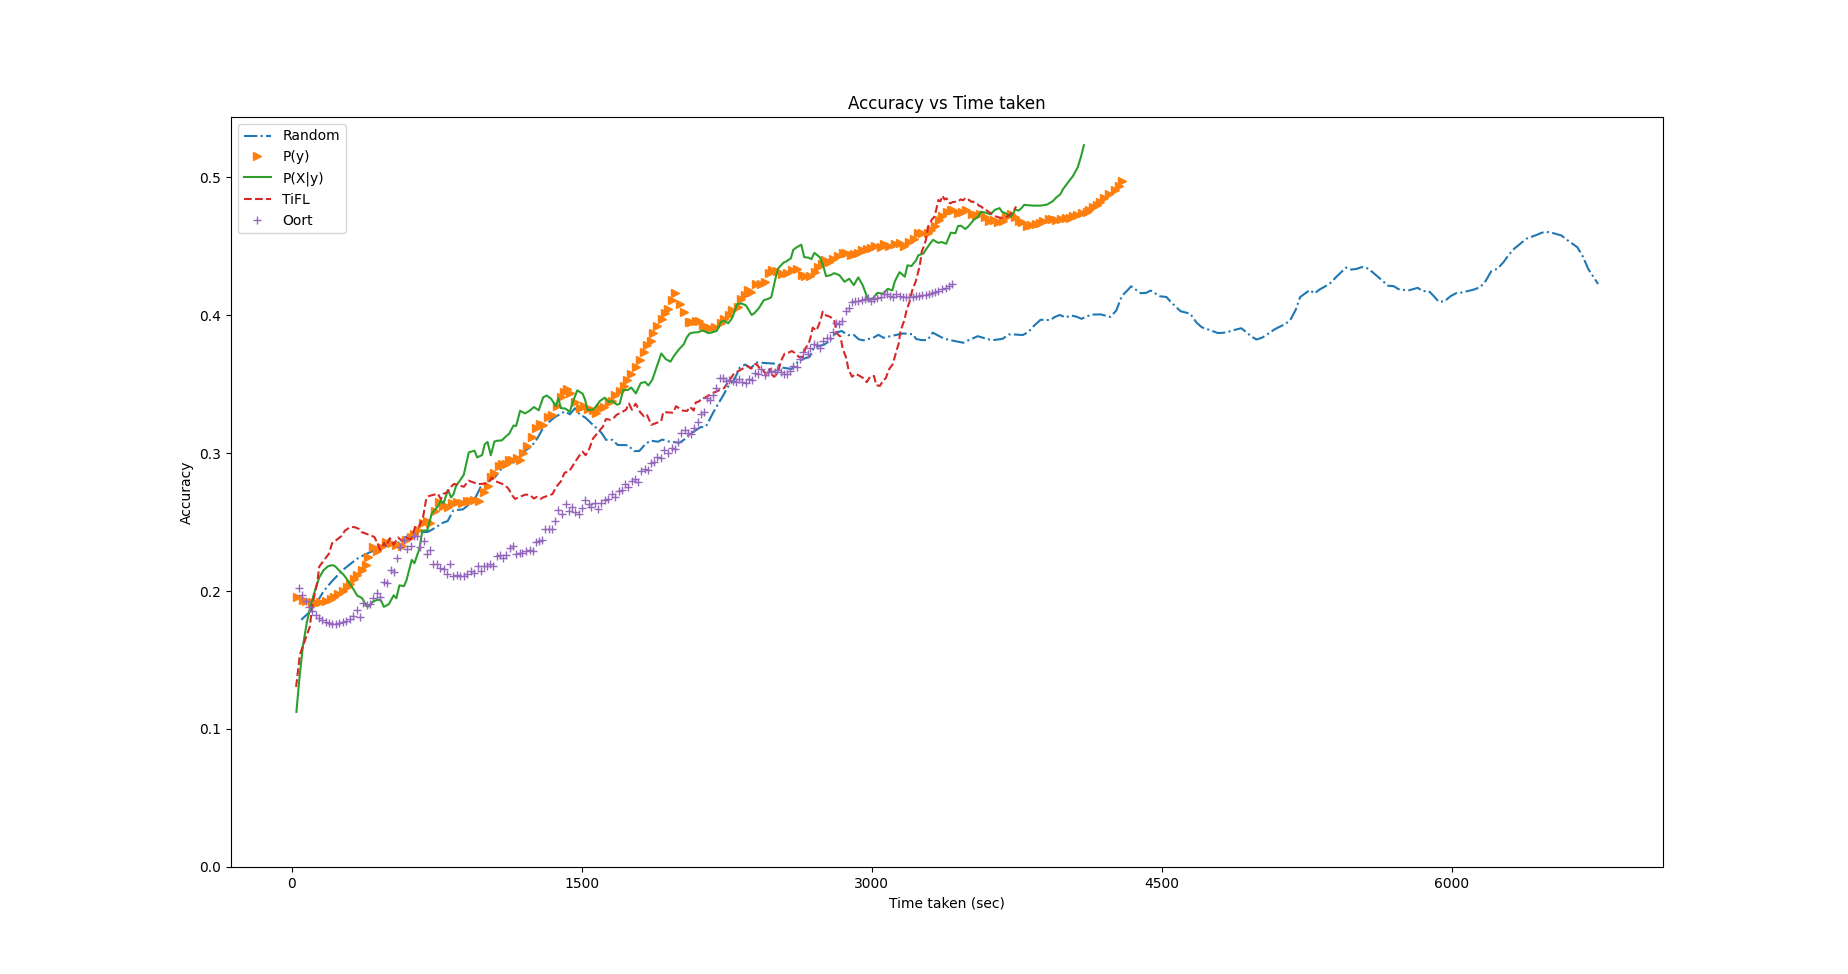
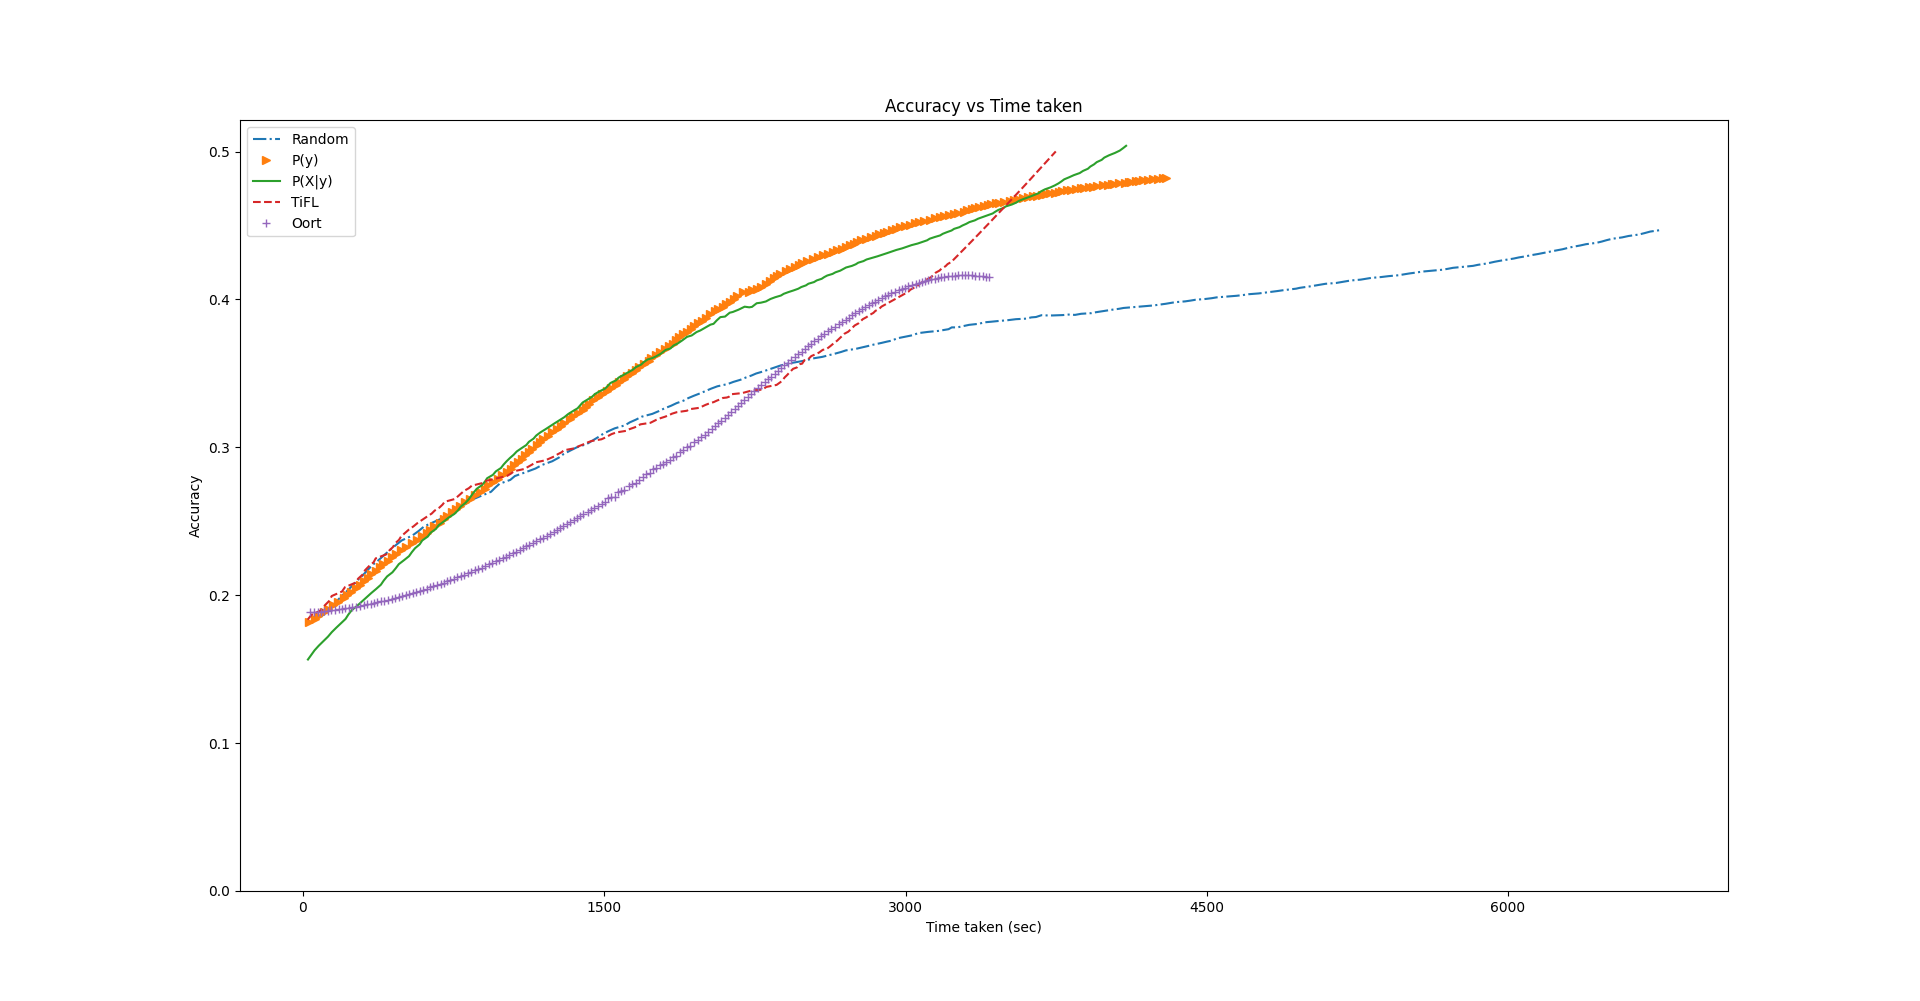
device drop simulation

diff --git a/server/run_server.py b/server/run_server.py
@@ -107,6 +107,9 @@ def generateDelays(n=30):
 usage_array = generateDelays(110)
 usage_iter = 0
 
+id_count = 1
+dev_drop_seed = 1
+
 class DeviceToCentralServicer(devicetocentral_pb2_grpc.DeviceToCentralServicer):
     
     def __init__(self, args):
@@ -128,15 +131,19 @@ class DeviceToCentralServicer(devicetocentral_pb2_grpc.DeviceToCentralServicer):
         self.lockObj.release()
 
     def RegisterToCentral(self, request, context):
+        global id_count
         msg = request.ip + ':' + str(request.flport)
-        id = util.get_id(msg)
+        # id = util.get_id(msg)
         
         self.lock()
+        id_count += 1
+        id = str(id_count)
         if id not in self.available_devices:
             self.available_devices[id] = {}
             self.available_devices[id]['id'] = id
             self.available_devices[id]['ip'] = request.ip
             self.available_devices[id]['flport'] = request.flport
+            self.available_devices[id]['fail'] = 0
             self.n_available_devices += 1
         self.unlock()
 
@@ -282,6 +289,20 @@ def set_worker_conn(hook, available_devices, available_instances, verbose):
             clientWorker.clear_objects_remote()
             available_instances[devid] = clientWorker
 
+def per_epoch_device_drop(devcentral, n_device_to_drop):
+    global dev_drop_seed
+    random.seed(dev_drop_seed)
+    dev_drop_seed += 1
+
+    drop_device_keys = random.choice(list(devcentral.available_device.keys()), n_device_to_drop)
+    for key in drop_device_keys:
+        devcentral.available_devices[key]['fail'] = 1
+
+    return drop_device_keys
+
+def per_epoch_recover_device(devcentral, drop_device_keys):
+    for key in drop_device_keys:
+        devcentral.available_devices[key]['fail'] = 0
 
 async def train_and_eval(args, devcentral, client_threshold, verbose):
    
@@ -309,11 +330,28 @@ async def train_and_eval(args, devcentral, client_threshold, verbose):
     available_instances = {}
     available_devices =  {}
     for curr_round in range(0, args.epochs):
+        drop_device_keys = []
 
         while True:
             devcentral.lock("train block 2")
             if devcentral.n_available_devices == devcentral.n_device_summaries:
-                available_devices = copy.deepcopy(devcentral.available_devices)
+                # drop devices
+                n_device_to_drop = int(devcentral.n_available_devices * args.drop/100.0)
+                if n_device_to_drop != 0:
+                    drop_device_keys = per_epoch_device_drop(devcentral, n_device_to_drop)
+                    logging.info('Dropped devices id: ', drop_device_keys)
+                
+                list_available_devices = [copy.deepcopy(devcentral.available_devices[k]) for k in devcentral.available_devices if devcentral.available_devices[k]['fail'] == 0]
+
+                # Recover devices
+                if n_device_to_drop != 0:
+                    per_epoch_recover_device(devcentral, drop_device_keys)
+
+                # available devices for this epoch
+                available_devices = {}
+                for dev in list_available_devices:
+                    available_devices[dev['id']] = dev.copy()
+
                 devcentral.unlock()
                 time.sleep(3)
                 break
@@ -346,8 +384,6 @@ async def train_and_eval(args, devcentral, client_threshold, verbose):
 
         models = {}
         loss_values = {}
-
-        # test_models = curr_round % 10 == 1 or curr_round == args.training_rounds
 
         # Federate models (note that this will also change the model in models[0]
         max_latency = 0.0
@@ -464,6 +500,13 @@ def parse_arguments(args = sys.argv[1:]):
     )
 
     parser.add_argument(
+        '--drop',
+        type = float,
+        default = 0.0,
+        help = 'Device drop percentage',
+    )
+
+    parser.add_argument(
         '--cuda',
         action = 'store_true',
         help = 'use cuda if available',
@@ -509,7 +552,7 @@ if __name__ == '__main__':
     grpcservice.start()
 
     # train and eval models 
-    client_threshold = 10
+    client_threshold = 5
     asyncio.get_event_loop().run_until_complete(
         train_and_eval(args, devcentral, client_threshold, args.verbose)
     )

diff --git a/logs/cifar10_perf_logs/perfParser.py b/logs/cifar10_perf_logs/perfParser.py
@@ -103,7 +103,7 @@ print("P(X|Y) TTC: ", pxyCTime)
 print("TiFL   TTC: ", tiflCTime)
 print("Oort   TTC: ", oortCTime)
 
-window = 31
+window = 171
 polyorder = 3
 rndaccuracysmooth = savgol_filter(rndaccuracy, window, polyorder)
 pyaccuracysmooth = savgol_filter(pyaccuracy, window, polyorder)
